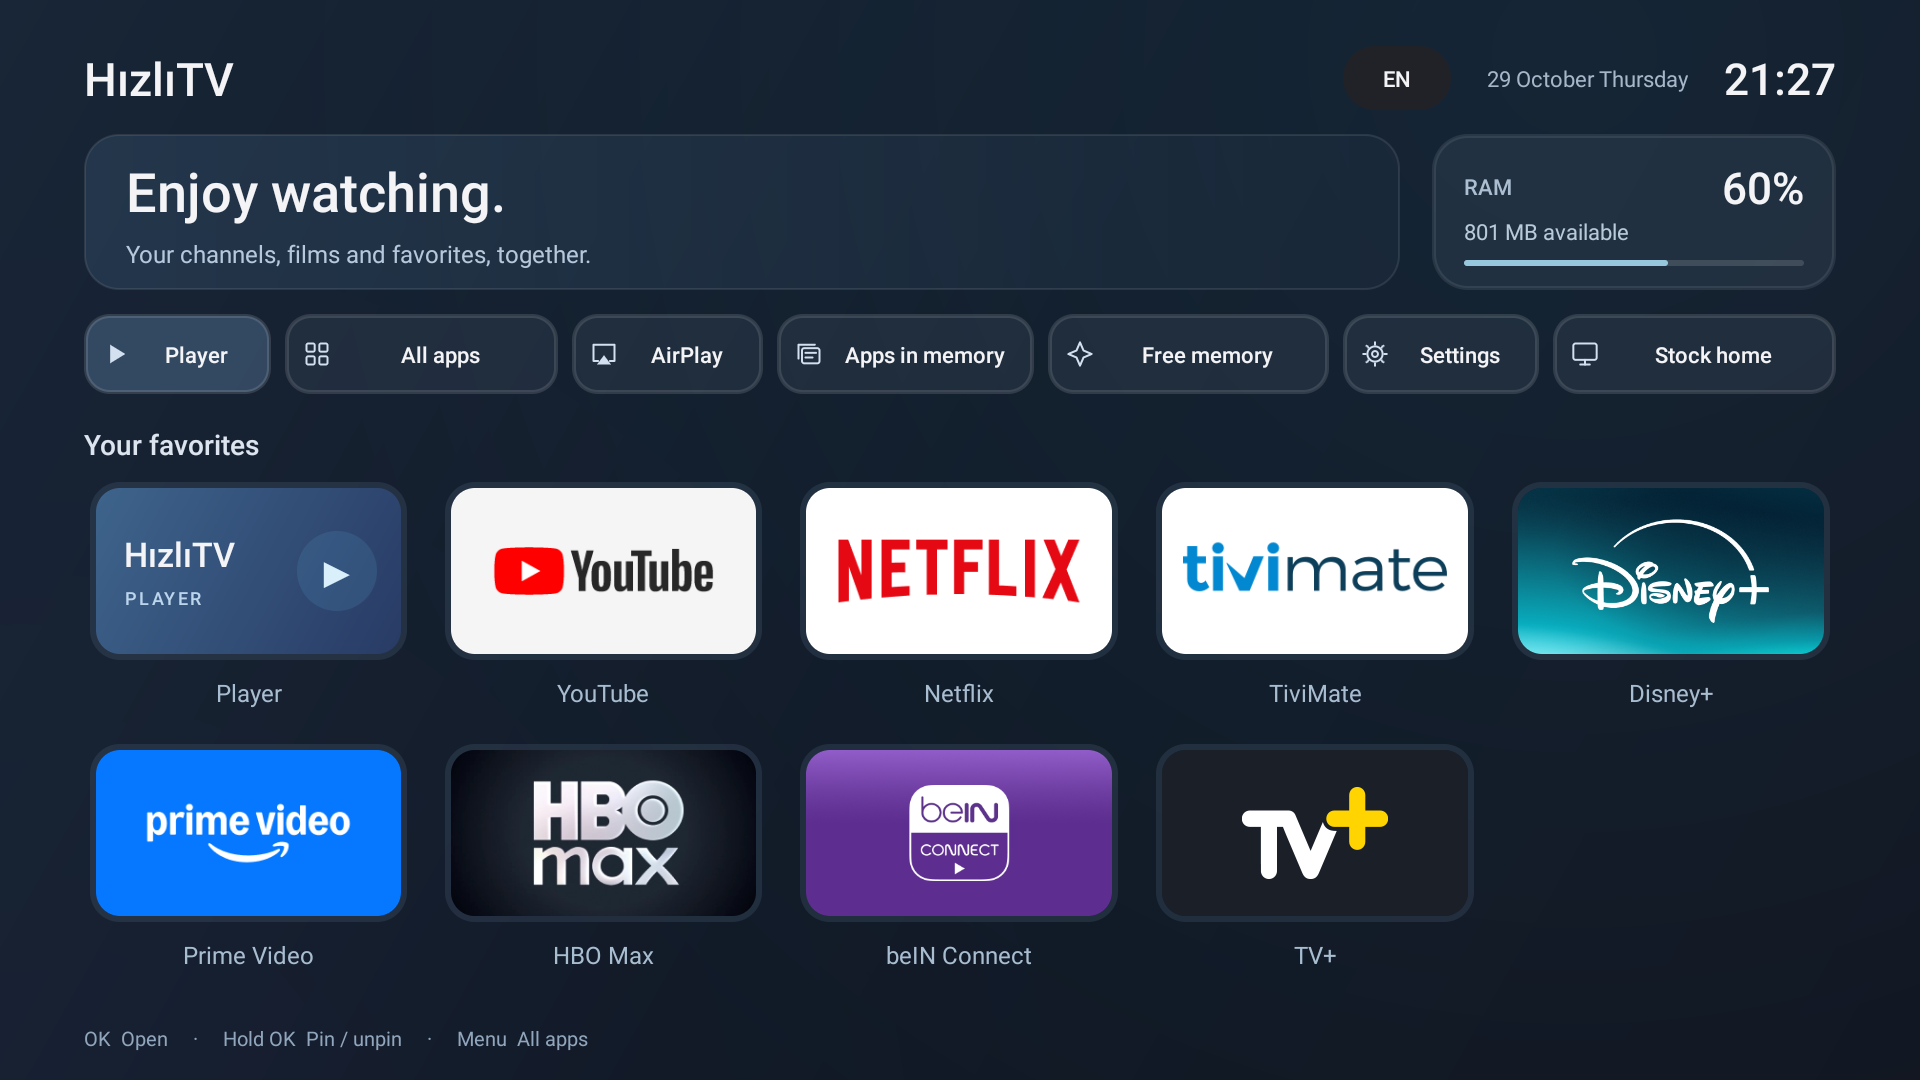
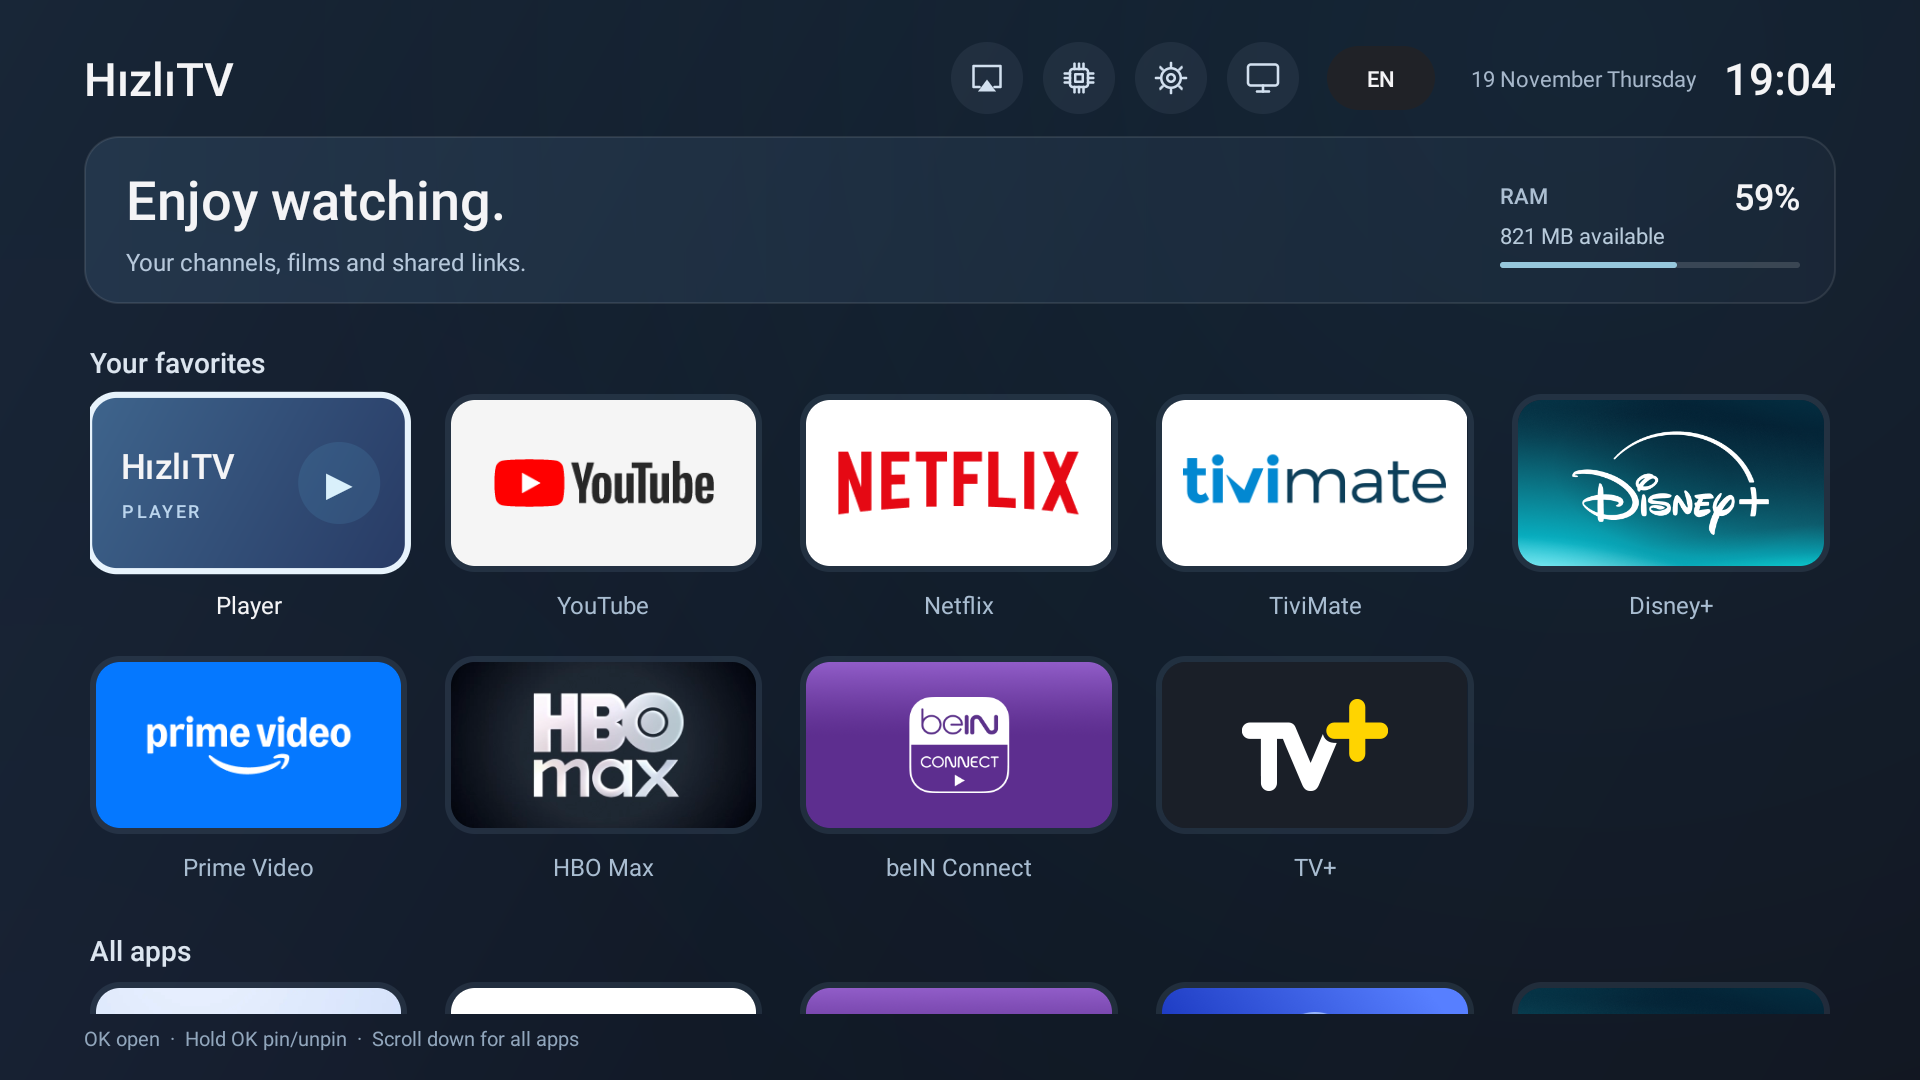
Refresh screenshots and README feature summary for the new UI
New English and Turkish captures from the Mi TV Stick show the icon-row
dashboard, the library with its pairing panel and the source prompt.
The real pairing QR code and address are replaced with a non-scannable
placeholder and 192.168.x.x:8198. The README tables now describe the
dashboard, inline QR and the rebuilt player.

diff --git a/README.tr.md b/README.tr.md
@@ -6,7 +6,7 @@ Android TV için sade bir ana ekran ve kişisel medya oynatıcısı. Büyük kar
 
 ![HızlıTV ana ekranı](docs/images/home.png)
 
-**Tek APK: HızlıTV 0.9.0** (`tr.hizlitv.home`). Ana ekran, cihaz araçları ve Player aynı uygulamanın içindedir. Player kartı; M3U kanallarını, bağlantıdan video bulmayı, altyazı/ses/kalite seçimini ve telefonla göndermeyi açar. Oynatma motoru yalnız video oynatıldığında oluşturulur.
+**Tek APK: HızlıTV 0.9.0** (`tr.hizlitv.home`). Ana ekran, cihaz araçları ve Player aynı uygulamanın içindedir. Ana ekranda RAM özetli selamlama paneli, favori rafı, altında tüm uygulamalar ve dört araç simgesi (AirPlay, Bellek, Ayarlar, Eski ana ekran) bulunur. Player kartı; M3U kanallarını, bağlantıdan video bulmayı ve telefonla göndermeyi açar; eşleştirme QR'ı kütüphanenin yanında hep görünür. Oynatıcıda kumanda odaklı bilgi şeridi, ◀ ▶ ile sarma, ▲ ▼ / CH± ile kanal geçişi, uzun OK ile kalite/ses/altyazı/görüntü/hız seçenekleri, kaldığın yerden devam ve 4K panellerde 4K'ya kadar oynatma vardır. Oynatma motoru yalnız video oynatıldığında oluşturulur.
 
 Android 6 / API 23 ve üzeri TV cihazları hedeflenir. Gerçek cihaz doğrulaması Android 11 çalıştıran Mi TV Stick üzerinde yapılır; diğer üretici/sürüm kombinasyonları ayrıca denenmelidir. Uygulama target SDK 35 kullanır. HOME tuşu veya varsayılan sistem başlatıcısı değiştirilmez. Player ayrı bir uygulama olarak kurulmaz.
 
@@ -16,7 +16,9 @@ Android 6 / API 23 ve üzeri TV cihazları hedeflenir. Gerçek cihaz doğrulamas
 2. HızlıTV'yi uygulama listesinden aç. Sağ/sol/yukarı/aşağı ile gezin, OK ile seç. Uzun OK, favoriyi değiştirir.
 3. **Player**'ı aç ve kütüphanenin yanında duran QR'ı okut. Aynı yerel ağdaki telefonundan video bağlantısı veya M3U metni gönder.
 4. Ana ekrandaki **EN/TR** düğmesinden Sistem dili, English veya Türkçe seçebilirsin; Android sistem dili değişmez.
-5. TV'de **Oynat** veya **Listeyi ekle** seç. Gönderilen bağlantı kendiliğinden oynatılmaz.
+5. TV'de **Oynat** veya **Listeyi ekle** seç. Telefondan gönderilen bağlantı kendiliğinden oynatılmaz; kütüphanedeki bir kayda OK basınca doğrudan oynar.
+
+![Eşleştirme paneliyle Player kütüphanesi (örnek QR kod)](docs/images/library.png)
 
 QR alıcısı yalnızca Player kütüphane ekranı görünürken çalışır. Arka planda sürekli bir alıcı servisi yoktur. Bu sınırlamayı günlük kullanımda hesaba kat: göndermeden önce Player ekranını aç.
 

diff --git a/README.md b/README.md
@@ -16,11 +16,11 @@ The app supports **English and Turkish**. It follows the device language when su
 
 | Feature | Behavior |
 | --- | --- |
-| TV dashboard | Installed-app cards, favorites, clear DPAD focus and visible shortcuts |
+| TV dashboard | Greeting panel with RAM summary, a favorites shelf above all installed apps, and four tool icons (AirPlay, Memory, Settings, Stock home) |
 | Built-in Player | Direct video links, HLS/DASH streams, M3U channel lists and a private library |
-| Phone sharing | Scan a local QR page, paste a link/list, or use an iPhone Share Sheet shortcut |
+| Phone sharing | The pairing QR code stays beside the library; scan it, paste a link/list, or use an iPhone Share Sheet shortcut. The TV still asks before playing |
 | Source discovery | Looks for supported video sources and subtitle tracks on a supplied page, then asks before playing or saving |
-| Playback controls | Source-provided quality, audio and subtitle options; black video surroundings; saved VOD positions |
+| Playback | Remote-first overlay (title, LIVE badge, progress, clock); OK pause, ◀ ▶ seek, ▲ ▼ / CH± next channel; hold OK for quality, audio, subtitles, picture and speed; resume or start over; quiet reconnect; up to 4K on 4K panels |
 | Memory panel | Current system RAM information, plus optional diagnostics and selected-app management |
 | AirPlay shortcut | Opens the independent receiver; no AirPlay protocol code is linked into the main APK |
 
@@ -72,6 +72,8 @@ Replace `TV_IP` and `TV_SERIAL` with your own device. Wireless debugging varies 
 2. Open **Player** and scan the QR code shown beside the library. Keep both devices on the same local network.
 3. Paste a supported video page, direct stream or M3U text/URL. Choose **Play**, **Add to library**, or **Add playlist** on the TV.
 4. For repeat iPhone sharing, create the documented [Share Sheet shortcut](docs/en/IPHONE.md). Automatic background clipboard synchronization is not implemented.
+
+![Player library with the pairing panel (placeholder QR code)](docs/images/library-en.png)
 
 **Keep the Player library screen open when sending.** Its local HTTP listener stops when the library is no longer visible, including while a video is playing. It is not an always-on cloud casting service. Treat the QR address/token as a private pairing credential; use a trusted local network.
 

diff --git a/docs/en/USAGE.md b/docs/en/USAGE.md
@@ -8,6 +8,8 @@ Four round icons beside the clock open an installed AirPlay receiver (hidden whe
 
 ## Library
 
+![Player library; the QR code is a placeholder, the real pairing code is hidden](../images/library-en.png)
+
 - **Send from phone panel:** the QR code stays visible beside the library; pairing is created automatically on first use. OK on the panel enlarges it and offers **New QR code**. Existing shortcuts do not need a new QR code unless addressing/pairing changed.
 - **Link / playlist:** enter a direct link, supported web page, M3U URL or M3U text.
 - **Undo:** shown only while an undo backup exists; reverts the most recent library edit (one level).

diff --git a/docs/KULLANIM.md b/docs/KULLANIM.md
@@ -12,7 +12,7 @@ Saatin yanındaki dört yuvarlak simge **AirPlay** (alıcı kurulu değilse gizl
 
 ## Kütüphane
 
-![Player kütüphanesi](images/library.png)
+![Player kütüphanesi; QR kod örnektir, gerçek eşleştirme kodu gizlendi](images/library.png)
 
 - **Telefondan gönder paneli:** QR kod kütüphanenin sağında hep görünür; ilk açılışta eşleştirme kendiliğinden oluşur. Panelde OK büyük QR'ı ve **Yeni QR kod** seçeneğini açar. Daha önce kurulmuş Kestirme için tekrar QR okutmak gerekmez; kütüphane görünür olsun.
 - **Göster düğmesi:** Tümü, Favoriler veya bir M3U grubu arasında seçim yapar.
